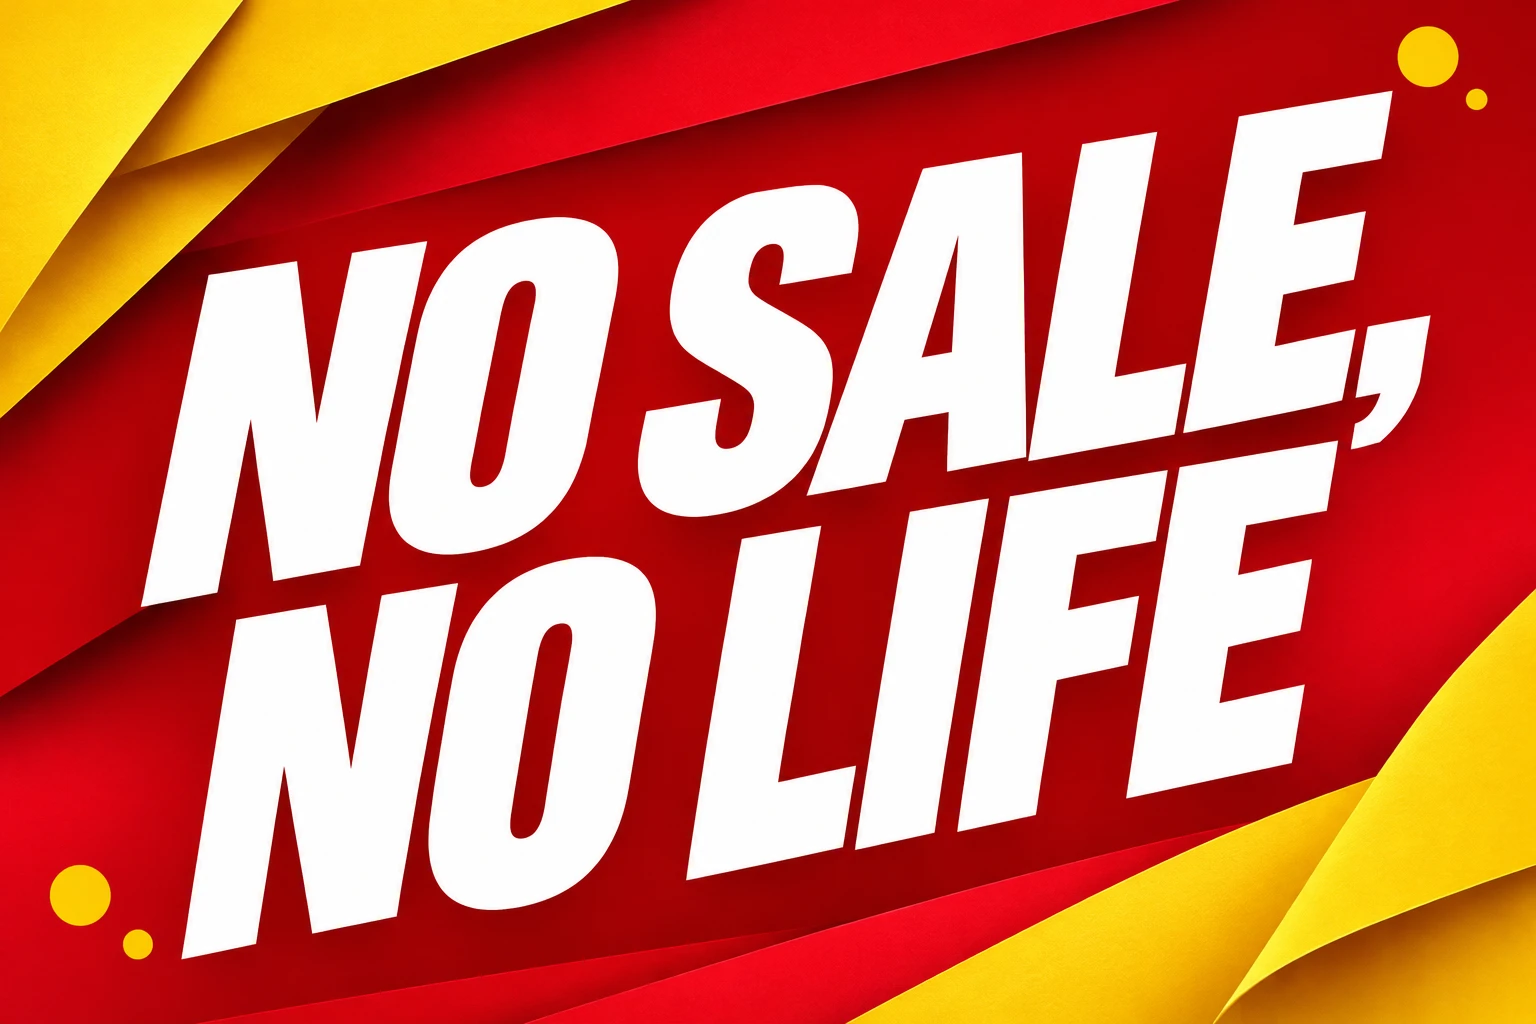
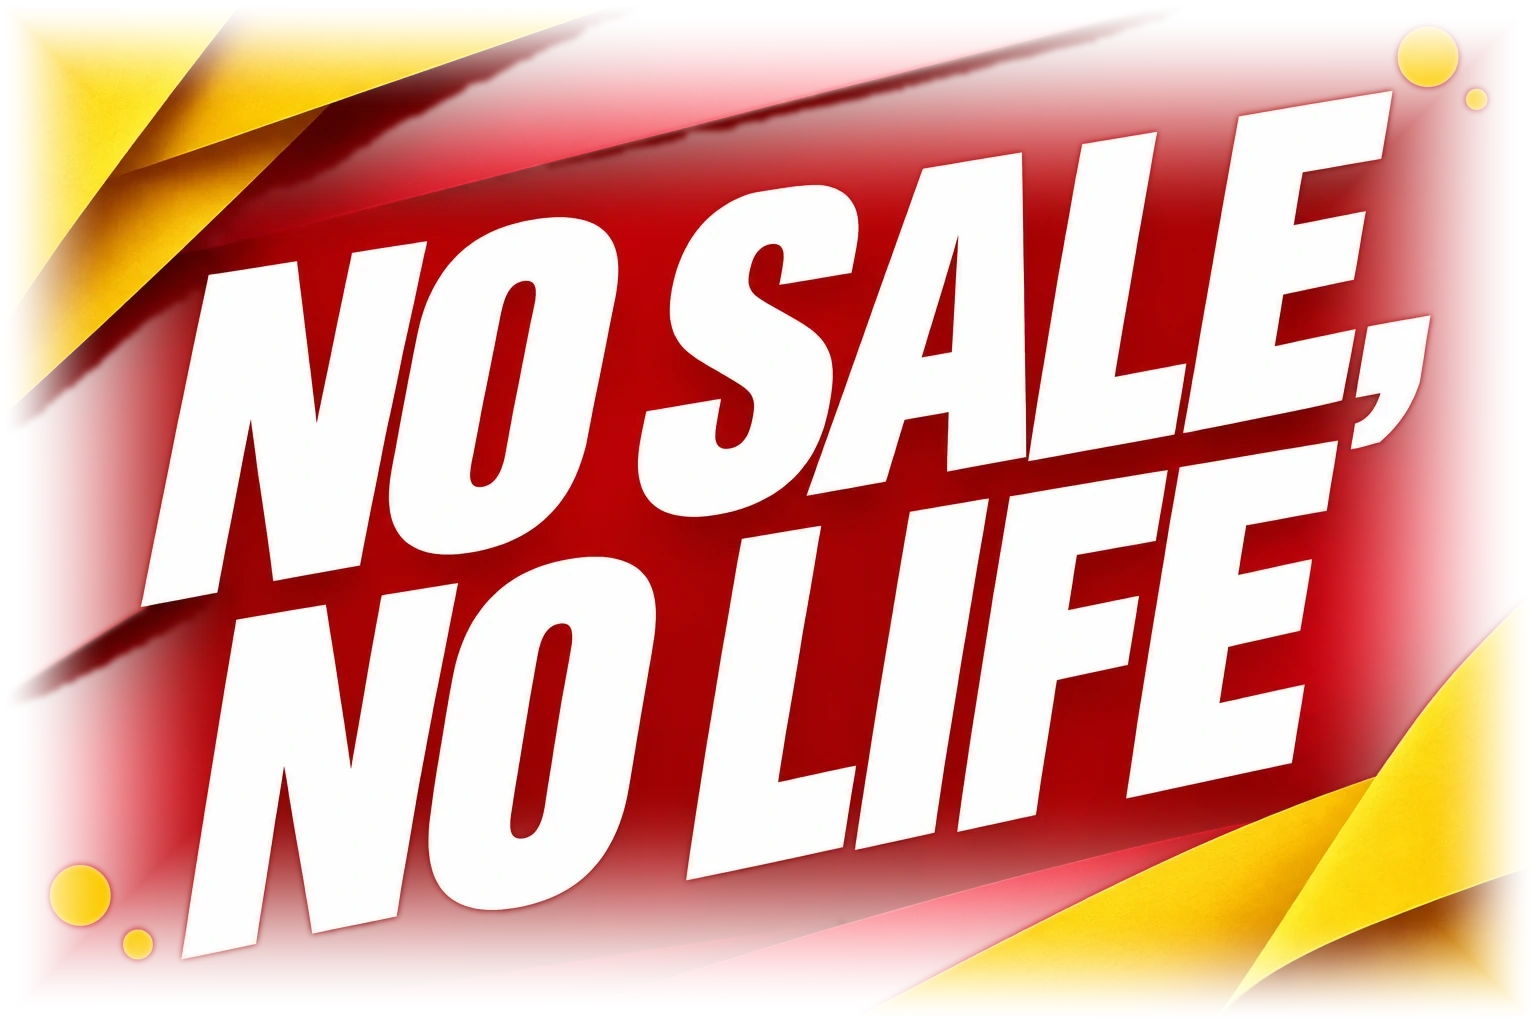
kaidoki: ヒーロー画像の縁を背景の赤になじませる(元の絵柄・フォントのまま、縁を透過でとかす。オーナー選択の案1)

diff --git a/sites/kaidoki/redesign/static/styles/site.css b/sites/kaidoki/redesign/static/styles/site.css
@@ -23,4 +23,4 @@ body{background:#fff9e9}.wrap{width:min(1180px,calc(100% - 56px))}.demo-bar{back
 @media(max-width:1000px) and (min-width:741px){.campaign-words{font-size:59px}.hero-visual.campaign-art{height:310px;min-height:310px}}
 @media(max-width:740px){.hero-visual.campaign-art{height:235px;min-height:235px;aspect-ratio:auto}.campaign-words{font-size:57px}.campaign-tag{width:83%;height:82%;left:8%;top:10%;padding:30px 9px 7px}.tag-hole{width:20px;height:20px;border-width:6px;top:13px}.tag-cord{height:108px;top:-48px}.tag-cord:after{height:108px}.fold-top{width:95px;height:70px}.fold-bottom{width:110px;height:70px}.fold-right{width:56px;height:70px}}
 @media(max-width:360px){.hero-visual.campaign-art{height:205px;min-height:205px}.campaign-words{font-size:47px}.campaign-tag{padding-top:25px}}
- .hero-visual.polished-hero{width:100%;height:auto;min-height:0;aspect-ratio:1.5;box-shadow:none;border:0;background:#e91420;overflow:hidden}.hero-visual.polished-hero img{position:static;display:block;width:100%;height:100%;object-fit:contain}@media(max-width:740px){.hero-visual.polished-hero{height:auto;min-height:0;aspect-ratio:1.5}} .category-photo{background:#fff7e7}
+ .hero-visual.polished-hero{width:100%;height:auto;min-height:0;aspect-ratio:1.5;box-shadow:none;border:0;background:transparent;overflow:hidden}.hero-visual.polished-hero img{position:static;display:block;width:100%;height:100%;object-fit:contain}@media(max-width:740px){.hero-visual.polished-hero{height:auto;min-height:0;aspect-ratio:1.5}} .category-photo{background:#fff7e7}
